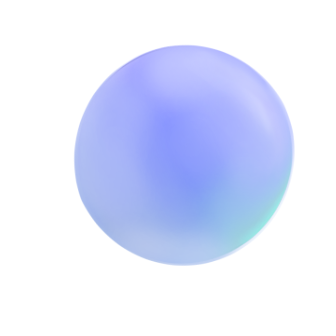
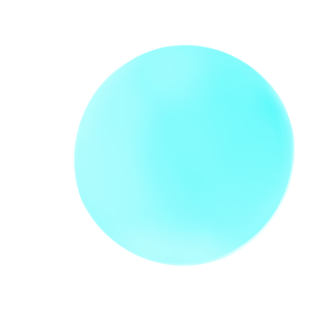
planet update

diff --git a/views/index.html b/views/index.html
@@ -17,43 +17,75 @@
       <span class = "player-info" id = "player-info-box">
       </span>
       <span class = "side-form" id = "test"> 
+       <input type="button" id="C" value="CCCCC" onclick="new_star('m0')">
 
       </span>
       <span class = "planet-orange" id = "m0" style="left: 425.7px; top: 230.5px;"></span>
-      <span class = "planet-orange" id = "m1" style="left: 1251.7px; top: 23.5px;"></span>
+      <span class = "planet-orange" id = "m1" style="left: 951.7px; top: 23.5px;"></span>
       <span class = "planet-orange" id = "m2" style="left: 45.7px; top: 410.5px;"></span>
       <span class = "planet-orange" id = "m3" style="left: 1024.7px; top: 512.5px;"></span>
-      <span class = "planet-orange" id = "m4" style="left: 342.7px; top: 630.5px;"></span>
-      <span class = "planet-orange" id = "m5" style="left: 589.7px; top: 420.5px;"></span>
-      <span class = "planet-orange" id = "m6" style="left: 686.7px; top: 330.5px;"></span>
-      <span class = "planet-orange" id = "m7" style="left: 510.7px; top: 10.5px;"></span>
+      <span class = "planet-orange" id = "m4" style="left: 342.7px; top: 600.5px;"></span>
+      <span class = "planet-orange" id = "m5" style="left: 489.7px; top: 570.5px;"></span>
+      <span class = "planet-orange" id = "m6" style="left: 626.7px; top: 330.5px;"></span>
+      <span class = "planet-orange" id = "m7" style="left: 510.7px; top: 110.5px;"></span>
       <span class = "planet-orange" id = "m8" style="left: 123.4px; top: 225.4px;"></span>
       <span class = "planet-orange" id = "m9" style="left: 966.6px; top: 630.5px;"></span>
-      <span class = "planet-red" id = "c0" style="left: 346.6px; top: 431.5px;"></span>
+      <span class = "planet-red" id = "c0" style="left: 306.6px; top: 581.5px;"></span>
       <span class = "planet-red" id = "c1" style="left: 616.6px; top: 230.5px;"></span>
-      <span class = "planet-red" id = "c2" style="left: 1166.6px; top: 130.5px;"></span>
+      <span class = "planet-red" id = "c2" style="left: 296.6px; top: 100.5px;"></span>
       <span class = "planet-red" id = "c3" style="left: 966.6px; top: 230.5px;"></span>
-      <span class = "planet-red" id = "c4" style="left: 366.6px; top: 330.5px;"></span>
+      <span class = "planet-red" id = "c4" style="left: 386.6px; top: 700.5px;"></span>
       <span class = "planet-blue" id = "a0" style="left: 1066.6px; top: 530.5px;"></span>
       <span class = "planet-blue" id = "a1" style="left: 926.6px; top: 270.5px;"></span>
-      <span class = "planet-blue" id = "a2" style="left: 634.4px; top: 30.5px;"></span>
+      <span class = "planet-blue" id = "a2" style="left: 634.4px; top: 130.5px;"></span>
       <span class = "planet-blue" id = "a3" style="left: 992.5px; top: 335.5px;"></span>
-      <span class = "planet-blue" id = "a4" style="left: 831.1px; top: 700.5px;"></span>
-      <span class = "planet-blue" id = "a5" style="left: 66.6px; top: 677.5px;"></span>
+      <span class = "planet-blue" id = "a4" style="left: 831.1px; top: 650.5px;"></span>
+      <span class = "planet-blue" id = "a5" style="left: 66.6px; top: 277.5px;"></span>
       <span class = "planet-blue" id = "a6" style="left: 466.6px; top: 666.6px;"></span>
       <span class = "planet-blue" id = "a7" style="left: 366.6px; top: 130.5px;"></span>
       <span class = "planet-blue" id = "a8" style="left: 10.6px; top: 445.2px;"></span>
-      <span class = "planet-blue" id = "a9" style="left: 166.6px; top: 632.1px;"></span>
-      <span class = "planet-blue" id = "a10" style="left: 266.6px; top: 230.5px;"></span>
+      <span class = "planet-blue" id = "a9" style="left: 166.6px; top: 372.1px;"></span>
+      <span class = "planet-blue" id = "a10" style="left: 366.6px; top: 230.5px;"></span>
       <span class = "planet-blue" id = "a11" style="left: 366.6px; top: 532.1px;"></span>
-      <span class = "planet-blue" id = "a12" style="left: 866.6px; top: 72.5px;"></span>
-      <span class = "planet-blue" id = "a13" style="left: 66.6px; top: 512.3px;"></span>
+      <span class = "planet-blue" id = "a12" style="left: 946.6px; top: 172.5px;"></span>
+      <span class = "planet-blue" id = "a13" style="left: 66.6px; top: 312.3px;"></span>
       <span class = "planet-blue" id = "a14" style="left: 466.6px; top: 183.5px;"></span>
       <span class = "planet-base" id = "b0" style="left: 206.6px; top: 400.5px;"></span>
-      <span class = "planet-base" id = "b1" style="left: 766.6px; top: 183.5px;"></span>
-      <span class = "planet-base" id = "b2" style="left: 716.6px; top: 583.5px;"></span>
+      <span class = "planet-base" id = "b1" style="left: 606.6px; top: 183.5px;"></span>
+      <span class = "planet-base" id = "b2" style="left: 916.6px; top: 533.5px;"></span>
       <span class = "planet-base" id = "b3" style="left: 566.6px; top: 283.5px;"></span>
-      <span class = "planet-base" id = "b4" style="left: 1066.6px; top: 331.5px;"></span>
+      <span class = "planet-base" id = "b4" style="left: 1066.6px; top: 261.5px;"></span>
+
+      <span class = "planet-unreached" id = "m0" style="left: 425.7px; top: 230.5px;"></span>
+      <span class = "planet-unreached" id = "m1" style="left: 951.7px; top: 23.5px;"></span>
+      <span class = "planet-unreached" id = "m2" style="left: 45.7px; top: 410.5px;"></span>
+      <span class = "planet-unreached" id = "m3" style="left: 1024.7px; top: 512.5px;"></span>
+      <span class = "planet-unreached" id = "m4" style="left: 342.7px; top: 600.5px;"></span>
+      <span class = "planet-unreached" id = "m5" style="left: 489.7px; top: 570.5px;"></span>
+      <span class = "planet-unreached" id = "m6" style="left: 626.7px; top: 330.5px;"></span>
+      <span class = "planet-unreached" id = "m7" style="left: 510.7px; top: 110.5px;"></span>
+      <span class = "planet-unreached" id = "m8" style="left: 123.4px; top: 225.4px;"></span>
+      <span class = "planet-unreached" id = "m9" style="left: 966.6px; top: 630.5px;"></span>
+      <span class = "planet-unreached" id = "c0" style="left: 306.6px; top: 581.5px;"></span>
+      <span class = "planet-unreached" id = "c1" style="left: 616.6px; top: 230.5px;"></span>
+      <span class = "planet-unreached" id = "c2" style="left: 296.6px; top: 100.5px;"></span>
+      <span class = "planet-unreached" id = "c3" style="left: 966.6px; top: 230.5px;"></span>
+      <span class = "planet-unreached" id = "c4" style="left: 386.6px; top: 700.5px;"></span>
+      <span class = "planet-unreached" id = "a0" style="left: 1066.6px; top: 530.5px;"></span>
+      <span class = "planet-unreached" id = "a1" style="left: 926.6px; top: 270.5px;"></span>
+      <span class = "planet-unreached" id = "a2" style="left: 634.4px; top: 130.5px;"></span>
+      <span class = "planet-unreached" id = "a3" style="left: 992.5px; top: 335.5px;"></span>
+      <span class = "planet-unreached" id = "a4" style="left: 831.1px; top: 650.5px;"></span>
+      <span class = "planet-unreached" id = "a5" style="left: 66.6px; top: 277.5px;"></span>
+      <span class = "planet-unreached" id = "a6" style="left: 466.6px; top: 666.6px;"></span>
+      <span class = "planet-unreached" id = "a7" style="left: 366.6px; top: 130.5px;"></span>
+      <span class = "planet-unreached" id = "a8" style="left: 10.6px; top: 445.2px;"></span>
+      <span class = "planet-unreached" id = "a9" style="left: 166.6px; top: 372.1px;"></span>
+      <span class = "planet-unreached" id = "a10" style="left: 366.6px; top: 230.5px;"></span>
+      <span class = "planet-unreached" id = "a11" style="left: 366.6px; top: 532.1px;"></span>
+      <span class = "planet-unreached" id = "a12" style="left: 946.6px; top: 172.5px;"></span>
+      <span class = "planet-unreached" id = "a13" style="left: 66.6px; top: 312.3px;"></span>
+      <span class = "planet-unreached" id = "a14" style="left: 466.6px; top: 183.5px;"></span>
 
 
     </div>

diff --git a/views/stylesheets/planet.css b/views/stylesheets/planet.css
@@ -1,12 +1,5 @@
 span.planet-orange{
-	background-image:url(../img/red.png);
-	background-size:contain;
-	background-repeat: no-repeat; 
-	height: 50px;
-	width: 50px;
-	position: fixed;
-}
-span.planet-blue{
+	/*display: none;*/
 	background-image:url(../img/orange.png);
 	background-size:contain;
 	background-repeat: no-repeat; 
@@ -14,8 +7,18 @@ span.planet-blue{
 	width: 50px;
 	position: fixed;
 }
-span.planet-red{
+span.planet-blue{
+	/*display: none;*/
 	background-image:url(../img/blue.png);
+	background-size:contain;
+	background-repeat: no-repeat; 
+	height: 50px;
+	width: 50px;
+	position: fixed;
+}
+span.planet-red{
+	/*display: none;*/
+	background-image:url(../img/red.png);
 	background-size:contain;
 	background-repeat: no-repeat; 
 	height: 50px;
@@ -25,6 +28,14 @@ span.planet-red{
 span.planet-base{
 	background-image:url(../img/base.png);
 	background-size:contain;
+	background-repeat: no-repeat; 
+	height: 50px;
+	width: 50px;
+	position: fixed;
+}
+span.planet-unreached{
+	background-image:url(../img/gray.png);
+		background-size:contain;
 	background-repeat: no-repeat; 
 	height: 50px;
 	width: 50px;

diff --git a/views/js/view.js b/views/js/view.js
@@ -1,5 +1,4 @@
 var socket = io();
-
 function login() {
 	console.log("here")
 	playerId = Number( $('#teamID').val() );
@@ -8,6 +7,23 @@ function login() {
 	$('#container').show();
 	$('#login').hide();
 	$('#side-form').hide();
+	$('#planet-blue').hide();
+	$('#planet-red').hide();
+	$('#planet-orange').hide();
+	$("#m0").hide();
+	var planet_name = ['#m0','#m1','#m2','#m3','#m4','#m5','#m6','#m7','#m8','#m9'];
+
+	var arrayLength = planet_name.length;
+	console.log(arrayLength)
+	for (var i = 0; i < arrayLength; i++) {
+		console.log(planet_name[i]);
+		$(planet_name[i]).hide();
+    //Do something
+	}
+	document.getElementsByClassName('planet-blue')[0].style.visibility = 'hidden';
+	// $('#planet-unreached').show();
+
+
 	socket.emit("login", playerId, playerName, password);
 	socket.on();
 }
@@ -22,4 +38,8 @@ function list_clicker(){
 		$('#side-form').hide();
 		a = 1;
 	}
+}
+function new_star(star_id){
+	console.log(star_id + "hide")
+	document.getElementById(star_id).style.display = 'none';
 }

diff --git a/views/stylesheets/index.css b/views/stylesheets/index.css
@@ -66,9 +66,6 @@ span.player-info{
 	float:left;
 }
 
-span.inner-text{
-
-}
 span.side-form{
 	background-image:url(../img/info-box.png);
 	background-size:contain;
